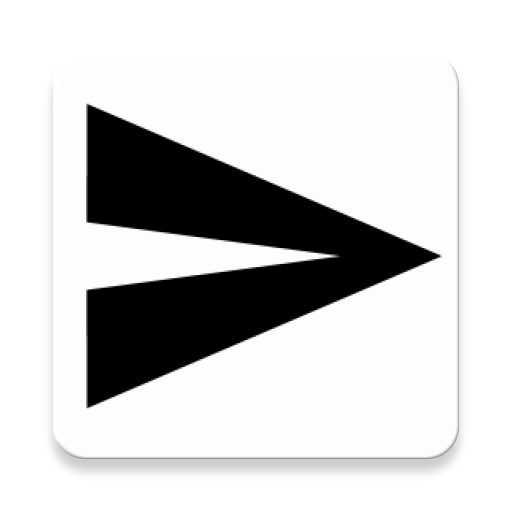
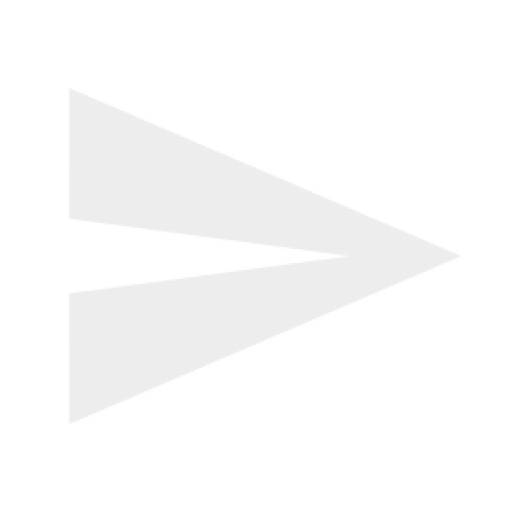
Merge branch 'master' of https://github.com/lorenzobrusco/YellitProject
Conflicts:
	mobile/src/main/res/values/colors.xml

Changed region(s): [[0.0938, 0.1562, 0.9062, 0.9375]]

diff --git a/mobile/src/main/java/unical/master/computerscience/yellit/graphic/Fragments/AddPostFragment.java b/mobile/src/main/java/unical/master/computerscience/yellit/graphic/Fragments/AddPostFragment.java
@@ -1,7 +1,6 @@
 package unical.master.computerscience.yellit.graphic.Fragments;
 
 import android.app.Activity;
-import android.app.Dialog;
 import android.content.Intent;
 import android.database.Cursor;
 import android.graphics.Bitmap;
@@ -12,25 +11,20 @@ import android.os.Bundle;
 import android.provider.MediaStore;
 import android.support.annotation.Nullable;
 import android.support.design.widget.BottomSheetBehavior;
-import android.support.design.widget.FloatingActionButton;
 import android.support.design.widget.TextInputEditText;
 import android.support.v4.app.Fragment;
-import android.support.v4.view.GestureDetectorCompat;
 import android.text.SpannableString;
 import android.text.style.ForegroundColorSpan;
 import android.text.style.RelativeSizeSpan;
 import android.text.style.StyleSpan;
 import android.util.DisplayMetrics;
 import android.util.Log;
-import android.view.GestureDetector;
 import android.view.LayoutInflater;
 import android.view.MotionEvent;
 import android.view.View;
 import android.view.ViewGroup;
-import android.view.Window;
 import android.view.animation.Animation;
 import android.view.animation.AnimationUtils;
-import android.widget.AdapterView;
 import android.widget.BaseAdapter;
 import android.widget.Button;
 import android.widget.GridView;
@@ -41,6 +35,7 @@ import android.widget.Toast;
 
 import com.bumptech.glide.Glide;
 import com.bumptech.glide.load.engine.DiskCacheStrategy;
+import com.github.clans.fab.FloatingActionButton;
 import com.github.mikephil.charting.charts.PieChart;
 import com.github.mikephil.charting.data.Entry;
 import com.github.mikephil.charting.data.PieData;
@@ -100,10 +95,10 @@ public class AddPostFragment extends Fragment implements OnChartValueSelectedLis
     private int lastSubMenu;
 
     @Bind(R.id.addpost_bottomsheet)
-    View mBottomSheetAddPost;
+    protected View mBottomSheetAddPost;
 
     @Bind(R.id.comment_post_add)
-    TextInputEditText mCommentText;
+    protected TextInputEditText mCommentText;
 
     @Bind(R.id.galleryGridView)
     protected GridView gallery;
@@ -111,6 +106,8 @@ public class AddPostFragment extends Fragment implements OnChartValueSelectedLis
     private BottomSheetBehavior mBottomSheetBehavior;
     private EZPhotoPickStorage ezPhotoPickStorage;
 
+    @Bind(R.id.addpost_transp_layer)
+    protected ImageView transparentLayer;
 
     @Nullable
     @Override
@@ -148,6 +145,7 @@ public class AddPostFragment extends Fragment implements OnChartValueSelectedLis
                 } else if (newState == BottomSheetBehavior.STATE_HIDDEN) {
 
                     floatingButton.setVisibility(View.INVISIBLE);
+                    transparentLayer.setVisibility(View.GONE);
                     //.animate().scaleX(0).scaleY(0).setDuration(300).start();
 
                 }
@@ -156,6 +154,12 @@ public class AddPostFragment extends Fragment implements OnChartValueSelectedLis
             @Override
             public void onSlide(View bottomSheet, float slideOffset) {
             }
+        });
+
+
+        transparentLayer.setOnClickListener(new View.OnClickListener() {
+            @Override
+            public void onClick(View v) {}
         });
 
         buildMainMenu();
@@ -170,6 +174,7 @@ public class AddPostFragment extends Fragment implements OnChartValueSelectedLis
     }
 
     private void changePriorityOfScroll() {
+
         mBottomSheetAddPost.setOnTouchListener(new View.OnTouchListener() {
             public boolean onTouch(View p_v, MotionEvent p_event) {
                 mCommentText.getParent().requestDisallowInterceptTouchEvent(false);
@@ -472,15 +477,13 @@ public class AddPostFragment extends Fragment implements OnChartValueSelectedLis
 
             case 0:
                 mBottomSheetBehavior.setState(BottomSheetBehavior.STATE_COLLAPSED);
+                transparentLayer.setVisibility(View.VISIBLE);
+                mainMenu.highlightValues(null);
                 break;
 
             case 1:
-                showAddDialog();
-                break;
-
             case 2:
             case 3:
-            case 4:
 
                 CustomDialogBottomSheet c = CustomDialogBottomSheet.newInstance("");
                 c.show(getFragmentManager().beginTransaction(), "");
@@ -551,46 +554,6 @@ public class AddPostFragment extends Fragment implements OnChartValueSelectedLis
         }
     }
 
-    protected GridView dialogGallery;
-
-    private void showAddDialog(){
-
-        final Dialog dialog = new Dialog(this.getContext());
-        dialog.requestWindowFeature(Window.FEATURE_NO_TITLE);
-        dialog.setCancelable(false);
-        dialog.setContentView(R.layout.dialog_add_post);
-
-        GridView dialogGallery = (GridView) dialog.findViewById(R.id.addpost_gallery);
-
-        dialogGallery.setAdapter(new ImageAdapter(getActivity()));
-        this.gridViewSetting(dialogGallery);
-        dialogGallery.setOnItemClickListener(new AdapterView.OnItemClickListener() {
-
-            @Override
-            public void onItemClick(AdapterView<?> arg0, View arg1,
-                                    int position, long arg3) {
-                if (null != images && !images.isEmpty())
-
-                    Glide.with(getContext()).load(images.get(position))
-                            .centerCrop()
-                            .into(imageLoaded);
-
-            }
-        });
-
-        /*
-        Button dialogButton = (Button) dialog.findViewById(R.id.delete);
-        dialogButton.setOnClickListener(new View.OnClickListener() {
-            @Override
-            public void onClick(View v) {
-                dialog.dismiss();
-            }
-        });
-        */
-
-        dialog.show();
-
-    }
     @Override
     public void onNothingSelected() {
         Log.i("PieChart", "nothing selected");

diff --git a/mobile/src/main/java/unical/master/computerscience/yellit/graphic/Fragments/PostFragment.java b/mobile/src/main/java/unical/master/computerscience/yellit/graphic/Fragments/PostFragment.java
@@ -32,9 +32,6 @@ import unical.master.computerscience.yellit.graphic.Adapters.PostAdapter;
 
 public class PostFragment extends Fragment {
 
-    @Bind(R.id.blanky)
-    ImageView blanky;
-
     @Bind(R.id.recycleview_posts)
     RecyclerView mPosts;
 
@@ -47,11 +44,6 @@ public class PostFragment extends Fragment {
         mPosts.setLayoutManager(new LinearLayoutManager(this.getContext()));
         mPosts.setAdapter(mPostAdapter);
         mPosts.addItemDecoration( new PaddingItemDecoration(170));
-
-        blanky.setOnClickListener(new View.OnClickListener() {
-            @Override
-            public void onClick(View v) {}
-        });
 
         return view;
     }
